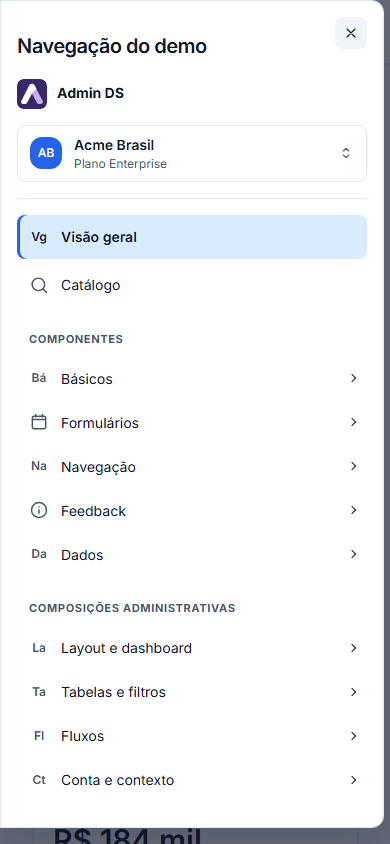
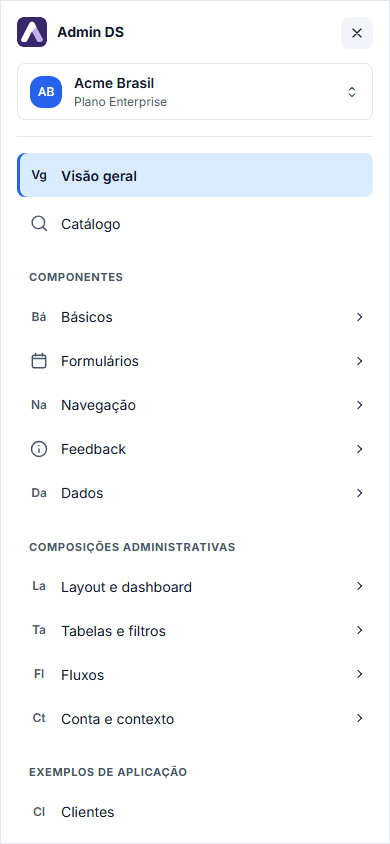
fix(admin): alinha marca e preenche navegacao movel (#187)

Changed region(s): [[0.0, 0.0, 1.0, 1.0], [0.8923, 0.0308, 0.9231, 0.0616]]

diff --git a/e2e/smoke.spec.ts b/e2e/smoke.spec.ts
@@ -76,11 +76,7 @@ test('mantém seleção proporcional, recuo lateral e seletor de largura estáve
 	const organization = nav.getByRole('button', { name: /^Organização atual/ });
 	await waitForHydration(organization);
 	const initialWidth = (await organization.boundingBox())!.width;
-	expect(
-		Math.abs(
-			initialWidth - (await page.locator('.ads-organization-switcher').boundingBox())!.width,
-		),
-	).toBeLessThanOrEqual(1);
+	expect(Math.abs(initialWidth - (await active.boundingBox())!.width)).toBeLessThanOrEqual(1);
 	for (const name of ['Initech', 'Globex Logística']) {
 		await organization.click();
 		await page
@@ -97,8 +93,18 @@ test('mantém seleção proporcional, recuo lateral e seletor de largura estáve
 			el.style.scrollbarGutter = value;
 		}, gutter);
 		const expanded = (await active.boundingBox())!;
+		const expandedOrganization = (await organization.boundingBox())!;
+		expect(Math.abs(expandedOrganization.width - expanded.width)).toBeLessThanOrEqual(1);
+		expect(Math.abs(expandedOrganization.x - expanded.x)).toBeLessThanOrEqual(1);
+		const mark = page.locator('.ads-admin-shell-sidebar-header .demo-brand-heading img');
+		const expandedMark = (await mark.boundingBox())!;
+
 		await page.getByRole('button', { name: 'Recolher barra lateral' }).click();
 		const collapsed = (await active.boundingBox())!;
+		const collapsedMark = (await mark.boundingBox())!;
+		expect(Math.abs(collapsedMark.x - expandedMark.x)).toBeLessThanOrEqual(0.5);
+		expect(collapsedMark.y).toBe(expandedMark.y);
+
 		expect(collapsed.width).toBeCloseTo(44, 0);
 		expect(collapsed.height).toBeCloseTo(44, 0);
 		expect(Math.abs(collapsed.x - expanded.x)).toBeLessThanOrEqual(1);
@@ -113,5 +119,41 @@ test('mantém seleção proporcional, recuo lateral e seletor de largura estáve
 			el.style.removeProperty('border-color');
 		});
 		await page.getByRole('button', { name: 'Expandir barra lateral' }).click();
+	}
+});
+
+test('menu móvel cobre a viewport e usa somente a marca como identificação visível', async ({
+	page,
+}) => {
+	for (const viewport of [
+		{ width: 390, height: 844 },
+		{ width: 320, height: 568 },
+		{ width: 740, height: 390 },
+	]) {
+		await page.setViewportSize(viewport);
+		await page.goto('/');
+		const trigger = page.getByRole('button', { name: 'Abrir navegação' });
+		await waitForHydration(trigger);
+		await trigger.click();
+		const drawer = page.getByRole('dialog', { name: 'Navegação do demo' });
+		await expect(drawer).toBeVisible();
+		const box = (await drawer.boundingBox())!;
+		expect(box.x).toBe(0);
+		expect(box.y).toBe(0);
+		expect(box.width).toBe(viewport.width);
+		expect(box.height).toBe(viewport.height);
+		await expect(drawer.getByRole('heading', { name: 'Navegação do demo' })).toHaveCount(0);
+		await expect(drawer.locator('.demo-brand-heading')).toHaveText('Admin DS');
+		const close = drawer.getByRole('button', { name: 'Fechar navegação' });
+		expect(
+			await close.evaluate((el) => {
+				const b = el.getBoundingClientRect();
+				return el.contains(document.elementFromPoint(b.x + b.width / 2, b.y + b.height / 2));
+			}),
+		).toBe(true);
+		await drawer.evaluate((el) => el.scrollTo(0, el.scrollHeight));
+		expect(await drawer.evaluate((el) => el.scrollTop)).toBeGreaterThan(0);
+		await page.keyboard.press('Escape');
+		await expect(trigger).toBeFocused();
 	}
 });

diff --git a/packages/admin/src/styles.css b/packages/admin/src/styles.css
@@ -1932,7 +1932,7 @@
 		border-color: transparent;
 	}
 	@media (min-width: 48rem) {
-		.ads-admin-shell--sidebar-header .ads-sidebar-navigation {
+		.ads-admin-shell--sidebar-header .ads-admin-shell-sidebar-desktop > .ads-admin-shell-sidebar {
 			container-type: inline-size;
 			--ads-sidebar-compact-content-width: calc(
 				100cqi -
@@ -1941,7 +1941,7 @@
 		}
 		.ads-admin-shell--sidebar-header
 			.ads-admin-shell-sidebar-desktop[data-collapsed='true']
-			.ads-sidebar-navigation {
+			> .ads-admin-shell-sidebar {
 			--ads-sidebar-compact-content-width: 100cqi;
 		}
 		.ads-admin-shell--sidebar-header
@@ -1961,4 +1961,36 @@
 			padding-inline: var(--ads-sidebar-selection-outset);
 		}
 	}
+}
+
+/* Align the expanded organization frame to the root navigation selection. */
+@layer components {
+	@media (min-width: 48rem) {
+		.ads-admin-shell--sidebar-header
+			.ads-admin-shell-sidebar-desktop[data-collapsed='false']
+			.ads-organization-switcher {
+			--ads-sidebar-selection-outset: calc(
+				(2.75rem - var(--ads-sidebar-compact-content-width)) / 2
+			);
+		}
+		.ads-admin-shell--sidebar-header
+			.ads-admin-shell-sidebar-desktop[data-collapsed='false']
+			.ads-organization-switcher
+			> * {
+			margin-inline: calc(-1 * var(--ads-sidebar-selection-outset));
+		}
+		.ads-admin-shell--sidebar-header
+			.ads-admin-shell-sidebar-desktop[data-collapsed='false']
+			.ads-organization-switcher-trigger {
+			padding-inline: calc(var(--ads-spacing-3) + var(--ads-sidebar-selection-outset));
+		}
+	}
+	.ads-admin-shell-mobile-drawer .ads-admin-shell-sidebar-header {
+		padding-inline-end: var(--ads-spacing-10);
+	}
+}
+/* Overrides the reusable Drawer's width/radius utilities only in the shell's mobile navigation. */
+.ads-admin-shell-mobile-drawer {
+	width: 100%;
+	border-radius: 0;
 }

diff --git a/e2e/admin-demo.spec.ts b/e2e/admin-demo.spec.ts
@@ -116,7 +116,8 @@ test('abre e fecha a navegação móvel do Admin Shell pelo teclado', async ({ p
 	await expect(trigger).toHaveAttribute('aria-expanded', 'true');
 	await expect(drawer.getByRole('link', { name: 'Componentes' })).toBeVisible();
 
-	await expect(drawer.getByRole('heading', { name: 'Navegação do demo' })).toBeVisible();
+	await expect(drawer.getByRole('heading', { name: 'Navegação do demo' })).toHaveCount(0);
+	await expect(drawer.locator('.demo-brand-heading')).toHaveText('Admin DS');
 	const closeButton = page.getByRole('button', { name: 'Fechar navegação' });
 	await expect(closeButton).toBeVisible();
 	// The close button must be the topmost element at its center, not covered by the navigation,
@@ -127,11 +128,6 @@ test('abre e fecha a navegação móvel do Admin Shell pelo teclado', async ({ p
 			const hit = document.elementFromPoint(rect.left + rect.width / 2, rect.top + rect.height / 2);
 			return hit !== null && button.contains(hit);
 		});
-	expect(await closeButtonOnTop()).toBe(true);
-	await drawer.getByRole('heading', { name: 'Navegação do demo' }).evaluate((heading) => {
-		heading.nextElementSibling?.classList.remove('mt-5');
-		heading.remove();
-	});
 	expect(await closeButtonOnTop()).toBe(true);
 
 	await closeButton.press('Enter');

diff --git a/packages/components/src/overlay-dialog.tsx b/packages/components/src/overlay-dialog.tsx
@@ -86,12 +86,12 @@ function OverlayPanel({
 					aria-labelledby={title ? titleId : props['aria-labelledby']}
 					aria-modal="true"
 					className={classNames(
-						'ads-overlay-panel relative max-h-[calc(100vh-2rem)] overflow-auto border border-border bg-surface-raised p-6 font-sans text-text shadow-lg outline-none max-md:max-h-[calc(100vh-1rem)] max-md:p-4',
+						'ads-overlay-panel relative overflow-auto border border-border bg-surface-raised p-6 font-sans text-text shadow-lg outline-none max-md:p-4',
 						isDrawer
 							? placement === 'left'
 								? 'mr-auto h-full max-h-none w-[min(24rem,100vw)] rounded-r-lg'
 								: 'ml-auto h-full max-h-none w-[min(24rem,100vw)] rounded-l-lg'
-							: 'm-auto w-[min(32rem,calc(100vw-2rem))] rounded-lg',
+							: 'm-auto max-h-[calc(100vh-2rem)] w-[min(32rem,calc(100vw-2rem))] rounded-lg max-md:max-h-[calc(100vh-1rem)]',
 						className,
 					)}
 					ref={(element) => {

diff --git a/apps/docs/src/admin-shell.stories.tsx b/apps/docs/src/admin-shell.stories.tsx
@@ -334,6 +334,10 @@ function SidebarBrand() {
 					alignItems: 'center',
 					minWidth: 0,
 					flex: 1,
+					marginInlineStart:
+						isDesktop && !collapsed
+							? 'calc((var(--ads-admin-shell-sidebar-width-collapsed) - 1px - 30px) / 2 - var(--ads-spacing-4))'
+							: 0,
 				}}
 			>
 				<img src="./admin-ds-favicon.svg" width={30} height={30} alt="" />
@@ -363,7 +367,7 @@ function SidebarBrandShell({
 				</div>
 			</AdsAdminShell.Header>
 			<AdsAdminShell.Body>
-				<AdsAdminShell.Sidebar header={<SidebarBrand />} mobileTitle="Navegação">
+				<AdsAdminShell.Sidebar header={<SidebarBrand />}>
 					{organization && (
 						<AdsOrganizationSwitcher
 							organizations={[

diff --git a/packages/admin/tests/admin-shell.test.tsx b/packages/admin/tests/admin-shell.test.tsx
@@ -443,3 +443,18 @@ describe('optional sidebar header composition', () => {
 		expect(screen.queryByRole('dialog')).not.toBeInTheDocument();
 	});
 });
+
+it('captures the mobile trigger as focus origin when pointer activation does not focus it', () => {
+	viewport = installViewport(false);
+	let origin: Element | null = null;
+	render(
+		<ExampleShell
+			onMobileOpenChange={(open) => {
+				if (open) origin = document.activeElement;
+			}}
+		/>,
+	);
+	const button = trigger();
+	fireEvent.click(button);
+	expect(origin).toBe(button);
+});

diff --git a/packages/admin/src/admin-shell-navigation.tsx b/packages/admin/src/admin-shell-navigation.tsx
@@ -31,7 +31,11 @@ export function AdsAdminShellNavigationTrigger({
 			className={classNames('ads-admin-shell-navigation-trigger', className)}
 			onClick={(event) => {
 				onClick?.(event);
-				if (!event.defaultPrevented) setMobileOpen(true);
+				if (!event.defaultPrevented) {
+					// Safari does not focus buttons on pointer activation by default.
+					event.currentTarget.focus();
+					setMobileOpen(true);
+				}
 			}}
 			type={props.type ?? 'button'}
 		>

diff --git a/apps/admin-demo/app/globals.css b/apps/admin-demo/app/globals.css
@@ -654,3 +654,11 @@ body {
 		flex: 0 0 auto;
 	}
 }
+
+@media (min-width: 48rem) {
+	.demo-admin-shell:has(aside[data-collapsed='false']) .demo-brand-heading {
+		margin-inline-start: calc(
+			(var(--ads-admin-shell-sidebar-width-collapsed) - 1px - 30px) / 2 - var(--ads-spacing-4)
+		);
+	}
+}

diff --git a/apps/admin-demo/app/(admin)/layout.tsx b/apps/admin-demo/app/(admin)/layout.tsx
@@ -36,7 +36,6 @@ export default async function AdminLayout({ children }: Readonly<{ children: Rea
 						</>
 					}
 					label="Navegação do demo"
-					mobileTitle="Navegação do demo"
 				>
 					<DemoOrganizationSwitcher />
 					<DemoNavigation />

diff --git a/CHANGELOG.md b/CHANGELOG.md
@@ -10,7 +10,7 @@ por versão e pelas changes correspondentes do OpenSpec.
 
 #### Added
 
-- `refine-dashboard-sidebar-branding` (issue #187) - Composição opcional `AdsAdminShell layout="sidebar-header"` e slot `Sidebar.header` alinham branding e controle de painel lateral ao header com altura natural, preservando layout padrão, estados e rolagem independente. O seletor expandido ocupa a largura disponível sem variar com o nome; recolhido, sua borda fica transparente sem deslocar o avatar. O destaque ativo recolhido fica em 44×44px, com recuo lateral igual ao expandido e largura da sidebar preservada. O toggle circular com chevron fica na divisória sem aumentar a altura do topo ao recolher. `AdsOrganization.avatarTone` permite colorir o avatar no gatilho e nas opções (padrão neutral); o demo usa primary, como na conta. Demo move a marca abreviada Admin DS em uma linha para a sidebar, mantém abertura móvel alcançável e controles #185/#182; compacta localmente a Visão geral e organiza indicadores em 1/2/4 colunas pela largura útil, com 2×2 em 1280px. Seleção light suavizada por `--ads-sidebar-active-background`, sem alterar dark. Inclui stories, catálogo, documentação, testes e comparação visual.
+- `refine-dashboard-sidebar-branding` (issue #187) - Composição opcional `AdsAdminShell layout="sidebar-header"` e slot `Sidebar.header` alinham branding e controle de painel lateral ao header com altura natural, preservando layout padrão, estados e rolagem independente. O símbolo da marca mantém a posição ao expandir/recolher; o menu móvel preenche a viewport e mostra apenas logo/Admin DS, sem título duplicado. `AdsDrawer` deixa de herdar o limite de altura responsivo de `AdsDialog`, corrigindo a faixa no rodapé. O seletor expandido alinha sua caixa ao destaque raiz da navegação sem variar com o nome; recolhido, sua borda fica transparente sem deslocar o avatar. O destaque ativo recolhido fica em 44×44px, com recuo lateral igual ao expandido e largura da sidebar preservada. O toggle circular com chevron fica na divisória sem aumentar a altura do topo ao recolher. `AdsOrganization.avatarTone` permite colorir o avatar no gatilho e nas opções (padrão neutral); o demo usa primary, como na conta. Demo move a marca abreviada Admin DS em uma linha para a sidebar, mantém abertura móvel alcançável e controles #185/#182; compacta localmente a Visão geral e organiza indicadores em 1/2/4 colunas pela largura útil, com 2×2 em 1280px. Seleção light suavizada por `--ads-sidebar-active-background`, sem alterar dark. Inclui stories, catálogo, documentação, testes e comparação visual.
 
 - `issue-185-account-notifications-organization` (issue #185) - Três composições novas e independentes em `@admin-ds/admin`: `AdsAccountMenu` (menu de conta compacto aberto pelo avatar, com identidade, ações configuráveis por grupos, `Trocar conta` opcional e ações assíncronas pendentes), `AdsNotificationCenter` (sino com contador `99+` e painel lateral direito sobre `AdsDrawer`, filtros Todas/Não lidas, leitura individual e global por callbacks, estados de carregamento, vazio, erro, ação pendente e "Carregar mais"; abrir o painel nunca marca como lido) e `AdsOrganizationSwitcher` (seletor opcional no topo da sidebar, com busca, troca assíncrona sem confirmar antes do sucesso, estados e modo recolhido), sem mudança em `AdsAdminShell`. Evoluções compatíveis em `@admin-ds/components`: `AdsIcon` ganha `bell`, `building`, `chevronDown`, `chevronsUpDown`, `logOut`, `settings` e `user`; `AdsAvatar` tenta de novo a imagem quando `src` muda após uma falha e aceita `src={undefined}`. A biblioteca não implementa autenticação, autorização, backend, persistência nem transporte de notificações. Inclui stories, showcases em `/catalogo/account-menu`, `/catalogo/notification-center` e `/catalogo/organization-switcher` (com exemplo da sidebar sem seletor), integração no cabeçalho e na sidebar do admin demo com dados fictícios, documentação em `docs/integration.md` e testes unitários, de acessibilidade, SSR e E2E. Efeito observável no demo: sino de notificações e avatar da conta no cabeçalho e seletor de organização no topo da sidebar; o menu de tema do cabeçalho mantém o gatilho só com ícone e passa a mostrar ícone e texto nas opções (`optionDisplay="icon-text"`); tema e sino ficam sem borda no cabeçalho e o avatar da conta ganha fundo. `AdsAvatar` ganha `tone` (`neutral` padrão, `primary`, `success`, `warning`, `danger`), `backgroundColor` e `foregroundColor` (qualquer cor CSS); `AdsAccountMenu` aceita `user.avatarTone`, `avatarBackgroundColor` e `avatarForegroundColor` (padrão `primary`); `AdsThemeControl` ganha `triggerVariant` (`secondary` padrão, `ghost` sem borda), tudo aditivo; os baselines visuais do demo devem ser regenerados pelo workflow "Atualizar baselines visuais".
 

diff --git a/openspec/changes/refine-dashboard-sidebar-branding/design.md b/openspec/changes/refine-dashboard-sidebar-branding/design.md
@@ -37,3 +37,12 @@ API opt-in, nenhuma migração obrigatória. Integrar biblioteca e consumidores 
 - Expandido, o seletor organiza a âncora do popover como item de grid esticado: o gatilho ocupa toda a largura disponível, independente do nome. Não há largura fixa em pixels nem alteração global do Popover; rótulos longos continuam truncáveis.
 - O item ativo recolhido tem 2,75rem por 2,75rem. A navegação é um container inline: unidades cqi permitem calcular a expansão lateral do item considerando o espaço tomado pela scrollbar. No expandido, a mesma expansão considera a diferença entre as larguras da sidebar. Assim o recuo da seleção é igual nos dois estados, sem mudar largura da barra, posição dos ícones ou indentação das categorias. Só o item ativo ganha essa largura adicional.
 - Alternativa descartada: ampliar tudo com uma margem negativa constante produziria seleção maior que 44px em navegadores com scrollbar sobreposta. O cálculo é CSS, sem medição ou estado JavaScript novo.
+
+## Alinhamento final e navegação móvel
+
+- O container inline passa da navegação interna para a região rolável nav do shell, compartilhando o mesmo cálculo de recuo entre seleção e organização. Só a âncora do seletor expandido ganha margem lateral negativa; seu padding compensa a expansão para preservar avatar e texto. Recolhido permanece intacto.
+- O demo desloca o branding expandido para a coordenada horizontal do símbolo centralizado na largura recolhida, considerando largura pública da sidebar, borda e imagem de 30px. Não altera posição do símbolo recolhido nem a altura do topo. As stories demonstram o mesmo alinhamento.
+- O limite max-md de altura pertence apenas a AdsDialog. AdsDrawer já declara h-full/max-h-none, mas recebia também a classe responsiva limitadora de diálogo; retirar esse conflito corrige a faixa descoberta no rodapé para ambos os posicionamentos, sem mudar foco ou overlays.
+- O menu móvel do shell usa largura integral e cantos retos (CSS ads-admin-shell-mobile-drawer fora da layer para prevalecer sobre utilitários distribuídos). O Drawer genérico preserva sua largura padrão. No demo, omite-se mobileTitle: a identificação fica somente no branding, mantendo aria-label e botão de fechar. O topo móvel reserva espaço para esse botão.
+
+- No WebKit, o clique não foca o botão nativamente. NavigationTrigger foca a si mesmo antes de abrir, somente se o evento não foi cancelado; isso registra a origem correta para retorno de foco sem alterar estados ou callbacks públicos. Regressão unitária simula ativação sem foco nativo.

diff --git a/openspec/changes/refine-dashboard-sidebar-branding/tasks.md b/openspec/changes/refine-dashboard-sidebar-branding/tasks.md
@@ -47,3 +47,11 @@
 - [x] 6.3 Validar nomes curtos/longos, foco, geometria e regressões nos navegadores; atualizar evidências e executar gates locais.
 
 - Consistência validada: 21 smoke nos três navegadores e 302 E2E completos aprovados com --ignore-snapshots; 1.064 testes unitários/integração aprovados. Build, Storybook, tipos, lint, formatação, skills, artefatos gerados e 54 itens OpenSpec validados. test:quality continua limitado pela asserção preexistente /work versus C:\\work em test:ci no Windows. Capturas finais atualizadas e revisadas.
+
+## 7. Alinhamento final e menu móvel
+
+- [x] 7.1 Alinhar limites do seletor ao item ativo e estabilizar posição do símbolo da marca.
+- [x] 7.2 Corrigir altura do Drawer, preencher viewport no menu do shell e remover título duplicado do demo, preservando acessibilidade.
+- [x] 7.3 Atualizar testes nos três navegadores, stories, documentação, changelog e capturas; executar gates locais completos.
+
+- Alinhamento final validado: 1.065 testes unitários/integração e 305 E2E locais aprovados com --ignore-snapshots. Cobertura nos três navegadores para coordenadas do símbolo, limites laterais da organização/seleção, menu móvel de 390×844, 320×568 e 740×390, rolagem e foco. Build completo, tipos, lint, formatação e 54 itens OpenSpec aprovados; test:quality mantém apenas a falha conhecida de caminho Windows em test:ci. Capturas finais revisadas e atualizadas.
